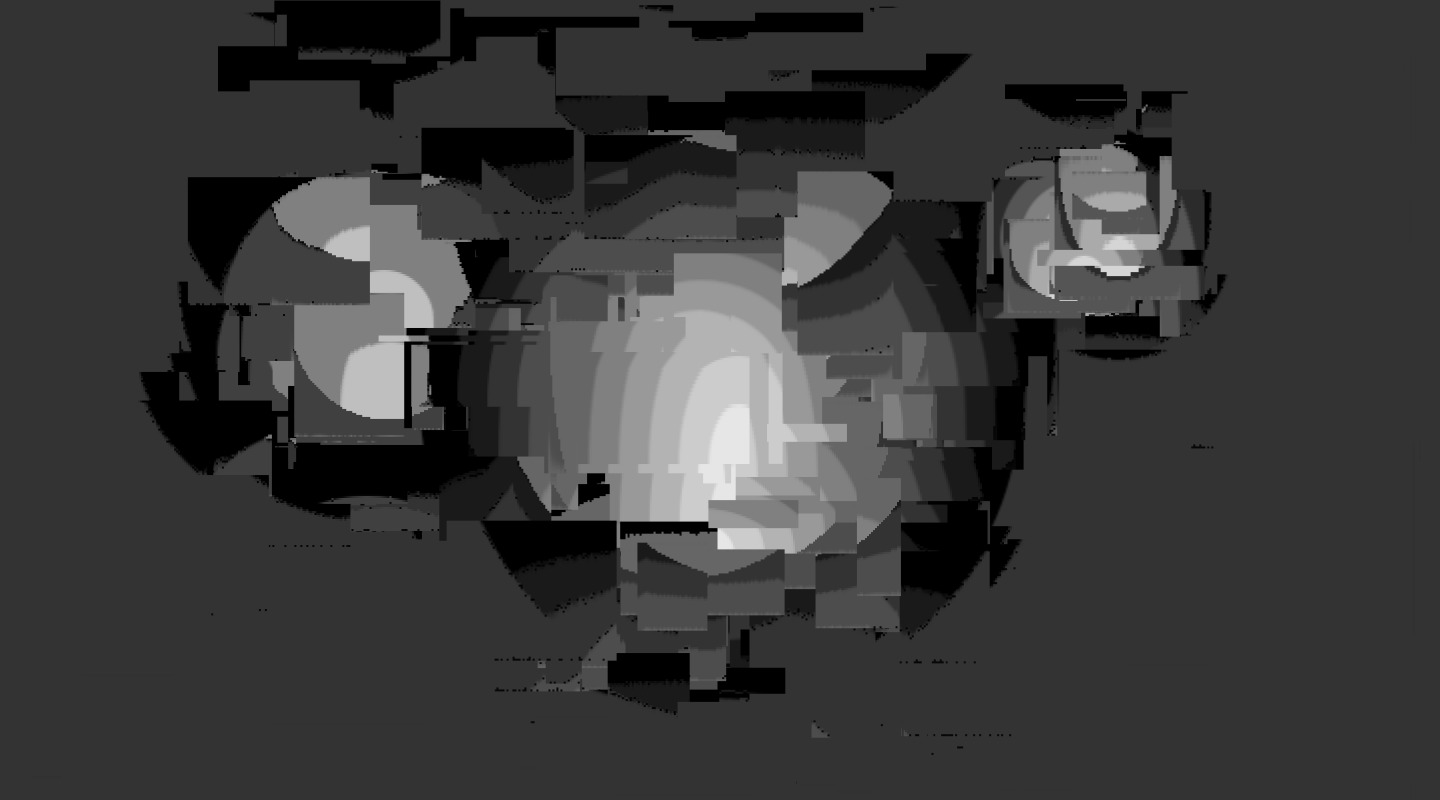
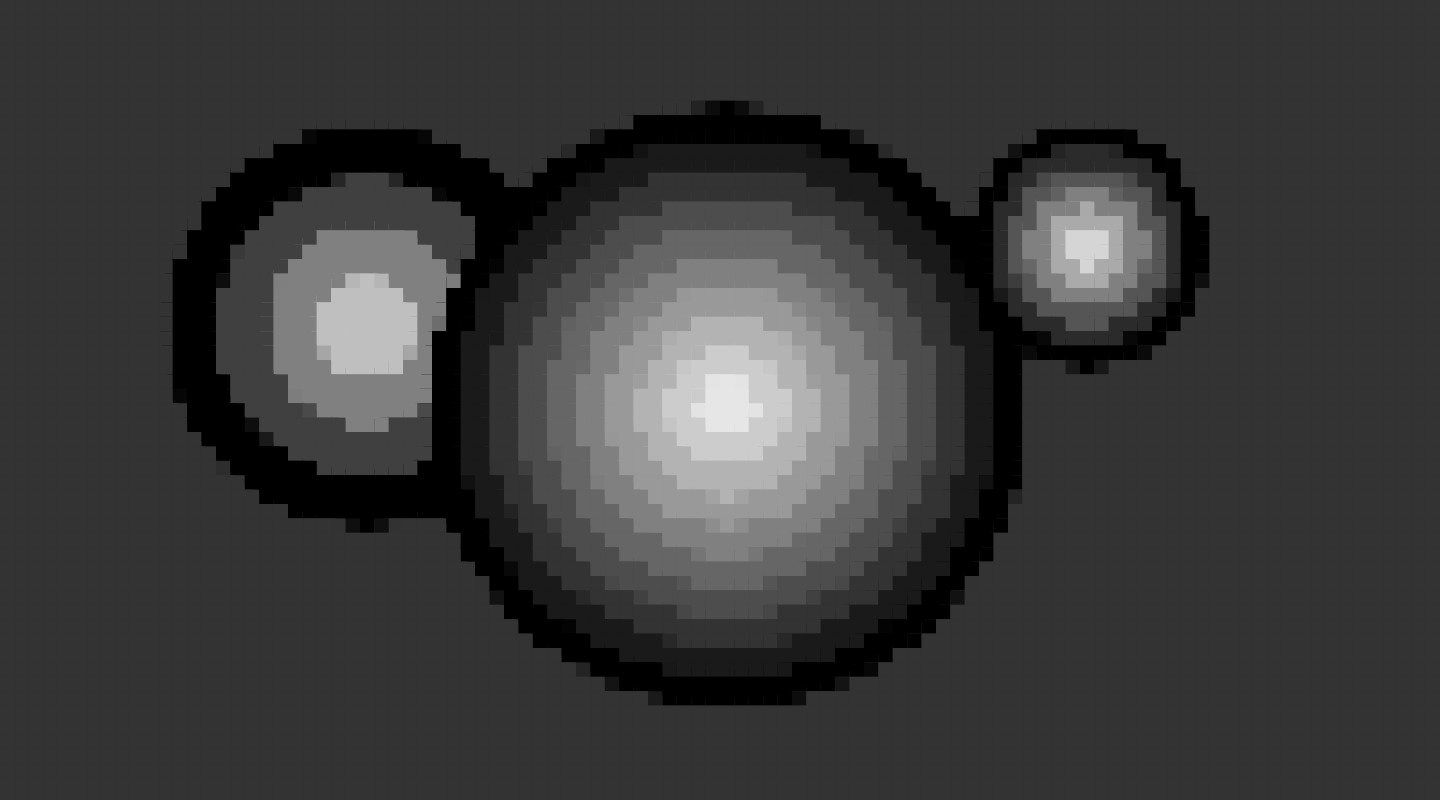
Fixed any

Changed region(s): [[0.0938, 0.0, 0.875, 0.9062]]

diff --git a/README.md b/README.md
@@ -50,28 +50,18 @@ function setup() {
 ![matthias-jaeger-net-any-demo](any-demo.jpg)
 ```javascript
 // https://p5js.org/examples/structure-functions.html
-
-// Added as a variable
-let effects;
-
 function setup() {
   createCanvas(720, 400);
   background(51);
   noStroke();
-  noLoop();
-}
-
-function draw() {
   drawTarget(width * 0.25, height * 0.4, 200, 4);
   drawTarget(width * 0.5, height * 0.5, 300, 10);
   drawTarget(width * 0.75, height * 0.3, 120, 6);
 
-  // Added the effects
-  effects = new Effects(this);
+  // Added code
+  const effects = new Effects(this);
   let design = get();
-  clear();
-  design = effects.glitchY(design);
-  image(design, 0, 0);
+  image(effects.mosaic(design), 0, 0);
   save('any-demo.jpg');
 }
 
